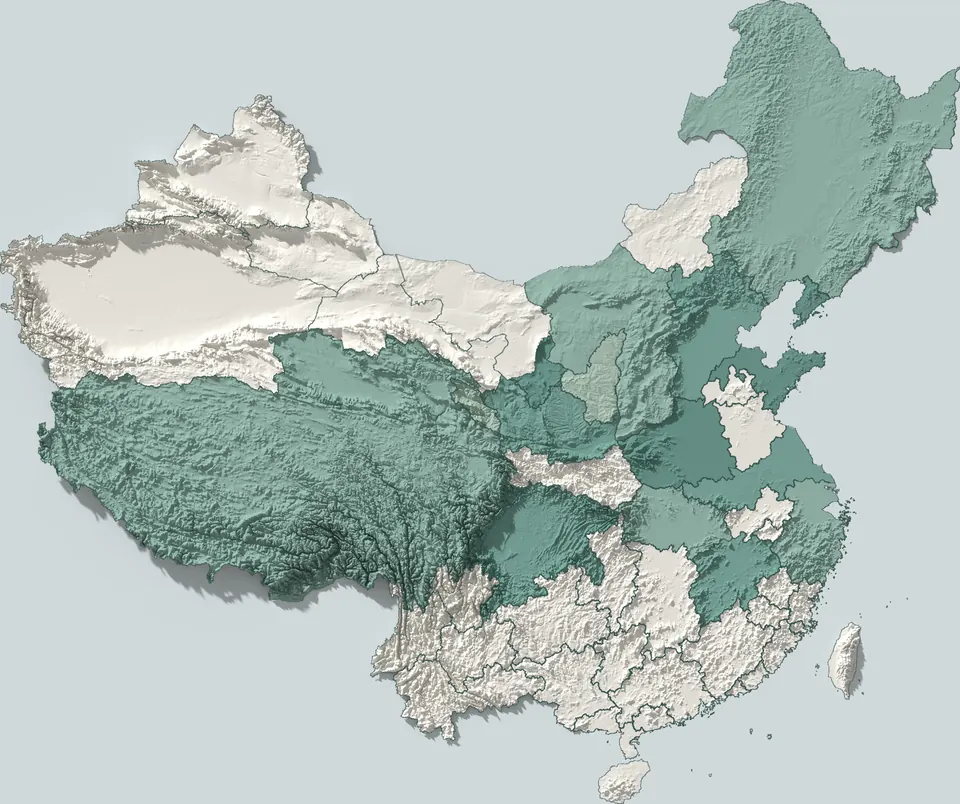
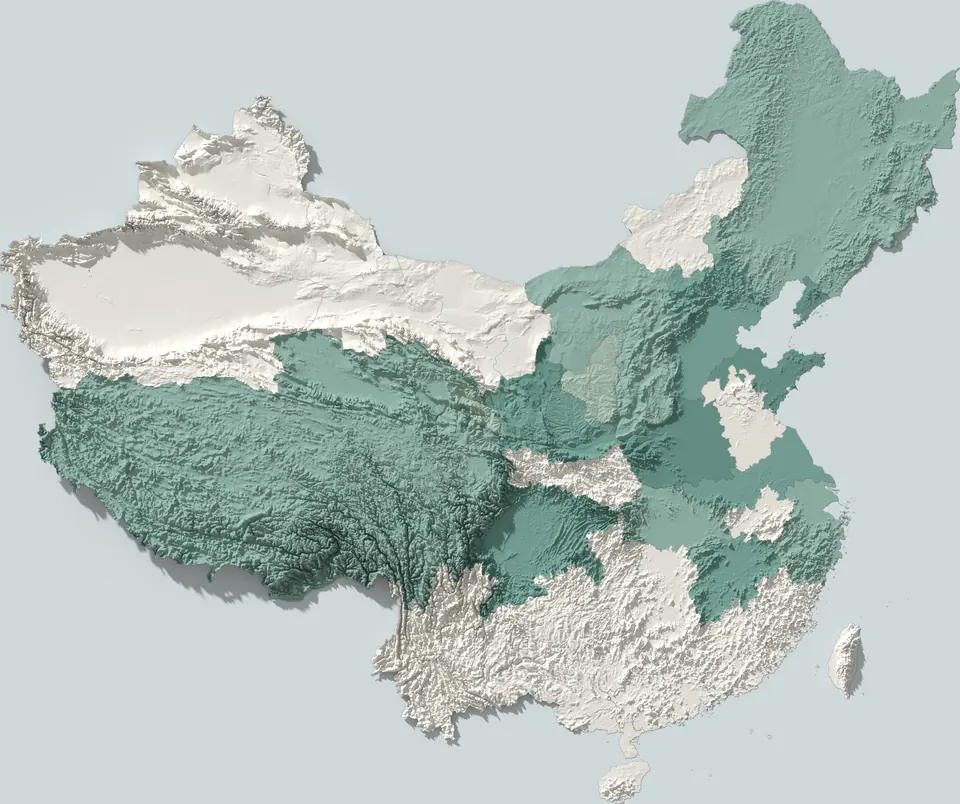
Soften cultural map boundaries in previews and the large viewer

diff --git a/life.html b/life.html
@@ -59,27 +59,27 @@
             visibility: hidden !important;
         }
     </style>
-<script src="assets/stellar-transit.js?v=20261108-biaukai" defer onerror="document.documentElement.classList.remove('stellar-arrival-pending')"></script>
+<script src="assets/stellar-transit.js?v=20261108-atlas-borders" defer onerror="document.documentElement.classList.remove('stellar-arrival-pending')"></script>
     <link rel="preload" href="fonts/newsreader-latin.woff2" as="font" type="font/woff2" crossorigin>
     <link rel="preload" href="fonts/ibm-plex-sans-latin.woff2" as="font" type="font/woff2" crossorigin>
     <link rel="preload" as="style" href="https://cdnjs.cloudflare.com/ajax/libs/font-awesome/6.5.1/css/all.min.css" onload="this.onload=null;this.rel='stylesheet'">
     <noscript><link rel="stylesheet" href="https://cdnjs.cloudflare.com/ajax/libs/font-awesome/6.5.1/css/all.min.css"></noscript>
-    <script src="assets/hipparcos-stars.js?v=20261108-biaukai" defer></script>
-    <script src="assets/hipparcos-distances.js?v=20261108-biaukai" defer></script>
-    <link rel="stylesheet" href="assets/life/styles/01-foundation-sky.css?v=20261108-biaukai&ui=20261029-handwriting&reading=20261106-illustrated-reader">
-    <link rel="stylesheet" href="assets/life/styles/02-section-drawer.css?v=20261108-biaukai">
-    <link rel="stylesheet" href="assets/life/styles/03-sky-navigation.css?v=20261108-biaukai">
-    <link rel="stylesheet" href="assets/life/styles/04-detail-panels.css?v=20261108-biaukai">
-    <link rel="stylesheet" href="assets/life/styles/05-life-content.css?v=20261108-biaukai&ui=20261028-personal&friends=20261030-group-links&reading=20261106-illustrated-reader">
-    <link rel="stylesheet" href="assets/life/styles/06-homepage-parity.css?v=20261108-biaukai">
-    <link rel="stylesheet" href="assets/life/styles/07-overlays-responsive.css?v=20261108-biaukai&atlas=20261107-culture-regions">
-    <link rel="stylesheet" href="assets/life/styles/08-star-map.css?v=20261108-biaukai">
-    <link rel="stylesheet" href="assets/life/styles/13-galactic-navigation.css?v=20261108-biaukai&controls=20261030-fixed-center">
-    <link rel="stylesheet" href="assets/life/styles/10-deep-sky-map.css?v=20261108-biaukai">
-    <link rel="stylesheet" href="assets/life/styles/11-index-theme-overlays.css?v=20261108-biaukai">
-    <link rel="stylesheet" href="assets/life/styles/12-handwritten-sky.css?v=20261108-biaukai">
-    <link rel="stylesheet" href="assets/site-identity.css?v=20261108-biaukai">
-    <script src="assets/site-identity.js?v=20261108-biaukai" defer></script>
+    <script src="assets/hipparcos-stars.js?v=20261108-atlas-borders" defer></script>
+    <script src="assets/hipparcos-distances.js?v=20261108-atlas-borders" defer></script>
+    <link rel="stylesheet" href="assets/life/styles/01-foundation-sky.css?v=20261108-atlas-borders&ui=20261029-handwriting&reading=20261106-illustrated-reader">
+    <link rel="stylesheet" href="assets/life/styles/02-section-drawer.css?v=20261108-atlas-borders">
+    <link rel="stylesheet" href="assets/life/styles/03-sky-navigation.css?v=20261108-atlas-borders">
+    <link rel="stylesheet" href="assets/life/styles/04-detail-panels.css?v=20261108-atlas-borders">
+    <link rel="stylesheet" href="assets/life/styles/05-life-content.css?v=20261108-atlas-borders&ui=20261028-personal&friends=20261030-group-links&reading=20261106-illustrated-reader">
+    <link rel="stylesheet" href="assets/life/styles/06-homepage-parity.css?v=20261108-atlas-borders">
+    <link rel="stylesheet" href="assets/life/styles/07-overlays-responsive.css?v=20261108-atlas-borders&atlas=20261108-atlas-borders">
+    <link rel="stylesheet" href="assets/life/styles/08-star-map.css?v=20261108-atlas-borders">
+    <link rel="stylesheet" href="assets/life/styles/13-galactic-navigation.css?v=20261108-atlas-borders&controls=20261030-fixed-center">
+    <link rel="stylesheet" href="assets/life/styles/10-deep-sky-map.css?v=20261108-atlas-borders">
+    <link rel="stylesheet" href="assets/life/styles/11-index-theme-overlays.css?v=20261108-atlas-borders">
+    <link rel="stylesheet" href="assets/life/styles/12-handwritten-sky.css?v=20261108-atlas-borders">
+    <link rel="stylesheet" href="assets/site-identity.css?v=20261108-atlas-borders">
+    <script src="assets/site-identity.js?v=20261108-atlas-borders" defer></script>
     <noscript>
         <style>
             html, body { height: auto; overflow: auto; background: var(--life-paper); color: var(--life-ink); }
@@ -1846,29 +1846,29 @@ Let me know what you think!
         <span data-key="home_departing">Returning home</span>
     </div>
 
-    <script src="assets/vendor/astronomy-engine-2.1.19.min.js?v=20261108-biaukai" defer></script>
-    <script src="assets/life/scripts/01-content-data.js?v=20261108-biaukai&copy=20261029-handwriting&friends=20261030-group-links&reading=20261106-illustrated-reader" defer></script>
-    <script src="assets/life/scripts/02-sky-config.js?v=20261108-biaukai&copy=20261028-no-star-note&reading=20261105-xiduomei" defer></script>
-    <script src="assets/life/scripts/03-math-orientation.js?v=20261108-biaukai" defer></script>
-    <script src="assets/life/scripts/04-dom-state.js?v=20261108-biaukai&copy=20261028-no-star-note" defer></script>
-    <script src="assets/life/scripts/05-astronomy.js?v=20261108-biaukai" defer></script>
-    <script src="assets/life/scripts/06-framing.js?v=20261108-biaukai" defer></script>
-    <script src="assets/life/scripts/07-galaxy-renderer.js?v=20261108-biaukai" defer></script>
-    <script src="assets/life/scripts/07-galactic-space.js?v=20261108-biaukai&controls=20261030-fixed-center" defer></script>
-    <script src="assets/life/scripts/07-star-map-renderer.js?v=20261108-biaukai&detail=20261102-grazing-density" defer></script>
-    <script src="assets/life/scripts/09-label-layout.js?v=20261108-biaukai" defer></script>
-    <script src="assets/life/scripts/10-sky-overlay.js?v=20261108-biaukai" defer></script>
-    <script src="assets/life/scripts/11-section-index.js?v=20261108-biaukai&ui=20261028-personal" defer></script>
-    <script src="assets/life/scripts/12-detail-navigation.js?v=20261108-biaukai&copy=20261028-no-star-note" defer></script>
-    <script src="assets/life/scripts/13-gaze-constellations.js?v=20261108-biaukai" defer></script>
-    <script src="assets/life/scripts/14-portal-navigation.js?v=20261108-biaukai" defer></script>
-    <script src="assets/life/scripts/15-render-lock.js?v=20261108-biaukai" defer></script>
-    <script src="assets/life/scripts/19-star-map.js?v=20261108-biaukai&controls=20261030-fixed-center&reading=20261105-xiduomei" defer></script>
-    <script src="assets/life/scripts/21-deep-sky-map.js?v=20261108-biaukai" defer></script>
-    <script src="assets/life/scripts/16-input-events.js?v=20261108-biaukai" defer></script>
-    <script src="assets/life/scripts/17-content-ui.js?v=20261108-biaukai&ui=20261028-personal&friends=20261030-group-links&reading=20261106-illustrated-reader" defer></script>
-    <script src="assets/life/scripts/22-footprints-atlas.js?v=20261108-biaukai&atlas=20261107-culture-regions" defer></script>
-    <script src="assets/life/scripts/23-handwritten-sky.js?v=20261108-biaukai&size=compact" defer></script>
-    <script src="assets/life/scripts/18-bootstrap.js?v=20261108-biaukai" defer></script>
+    <script src="assets/vendor/astronomy-engine-2.1.19.min.js?v=20261108-atlas-borders" defer></script>
+    <script src="assets/life/scripts/01-content-data.js?v=20261108-atlas-borders&copy=20261029-handwriting&friends=20261030-group-links&reading=20261106-illustrated-reader" defer></script>
+    <script src="assets/life/scripts/02-sky-config.js?v=20261108-atlas-borders&copy=20261028-no-star-note&reading=20261105-xiduomei" defer></script>
+    <script src="assets/life/scripts/03-math-orientation.js?v=20261108-atlas-borders" defer></script>
+    <script src="assets/life/scripts/04-dom-state.js?v=20261108-atlas-borders&copy=20261028-no-star-note" defer></script>
+    <script src="assets/life/scripts/05-astronomy.js?v=20261108-atlas-borders" defer></script>
+    <script src="assets/life/scripts/06-framing.js?v=20261108-atlas-borders" defer></script>
+    <script src="assets/life/scripts/07-galaxy-renderer.js?v=20261108-atlas-borders" defer></script>
+    <script src="assets/life/scripts/07-galactic-space.js?v=20261108-atlas-borders&controls=20261030-fixed-center" defer></script>
+    <script src="assets/life/scripts/07-star-map-renderer.js?v=20261108-atlas-borders&detail=20261102-grazing-density" defer></script>
+    <script src="assets/life/scripts/09-label-layout.js?v=20261108-atlas-borders" defer></script>
+    <script src="assets/life/scripts/10-sky-overlay.js?v=20261108-atlas-borders" defer></script>
+    <script src="assets/life/scripts/11-section-index.js?v=20261108-atlas-borders&ui=20261028-personal" defer></script>
+    <script src="assets/life/scripts/12-detail-navigation.js?v=20261108-atlas-borders&copy=20261028-no-star-note" defer></script>
+    <script src="assets/life/scripts/13-gaze-constellations.js?v=20261108-atlas-borders" defer></script>
+    <script src="assets/life/scripts/14-portal-navigation.js?v=20261108-atlas-borders" defer></script>
+    <script src="assets/life/scripts/15-render-lock.js?v=20261108-atlas-borders" defer></script>
+    <script src="assets/life/scripts/19-star-map.js?v=20261108-atlas-borders&controls=20261030-fixed-center&reading=20261105-xiduomei" defer></script>
+    <script src="assets/life/scripts/21-deep-sky-map.js?v=20261108-atlas-borders" defer></script>
+    <script src="assets/life/scripts/16-input-events.js?v=20261108-atlas-borders" defer></script>
+    <script src="assets/life/scripts/17-content-ui.js?v=20261108-atlas-borders&ui=20261028-personal&friends=20261030-group-links&reading=20261106-illustrated-reader" defer></script>
+    <script src="assets/life/scripts/22-footprints-atlas.js?v=20261108-atlas-borders&atlas=20261108-atlas-borders" defer></script>
+    <script src="assets/life/scripts/23-handwritten-sky.js?v=20261108-atlas-borders&size=compact" defer></script>
+    <script src="assets/life/scripts/18-bootstrap.js?v=20261108-atlas-borders" defer></script>
 </body>
 </html>

diff --git a/observatory.html b/observatory.html
@@ -60,26 +60,26 @@
             visibility: hidden !important;
         }
     </style>
-<script src="assets/stellar-transit.js?v=20261108-biaukai" defer onerror="document.documentElement.classList.remove('stellar-arrival-pending')"></script>
+<script src="assets/stellar-transit.js?v=20261108-atlas-borders" defer onerror="document.documentElement.classList.remove('stellar-arrival-pending')"></script>
     <link rel="preload" href="fonts/newsreader-latin.woff2" as="font" type="font/woff2" crossorigin>
     <link rel="preload" href="fonts/ibm-plex-sans-latin.woff2" as="font" type="font/woff2" crossorigin>
     <link rel="preload" as="style" href="https://cdnjs.cloudflare.com/ajax/libs/font-awesome/6.5.1/css/all.min.css" onload="this.onload=null;this.rel='stylesheet'">
     <noscript><link rel="stylesheet" href="https://cdnjs.cloudflare.com/ajax/libs/font-awesome/6.5.1/css/all.min.css"></noscript>
-    <script src="assets/hipparcos-stars.js?v=20261108-biaukai" defer></script>
-    <script src="assets/hipparcos-distances.js?v=20261108-biaukai" defer></script>
-    <link rel="stylesheet" href="assets/life/styles/01-foundation-sky.css?v=20261108-biaukai&ui=20261029-handwriting&reading=20261106-illustrated-reader">
-    <link rel="stylesheet" href="assets/life/styles/02-section-drawer.css?v=20261108-biaukai">
-    <link rel="stylesheet" href="assets/life/styles/03-sky-navigation.css?v=20261108-biaukai">
-    <link rel="stylesheet" href="assets/life/styles/04-detail-panels.css?v=20261108-biaukai">
-    <link rel="stylesheet" href="assets/life/styles/05-life-content.css?v=20261108-biaukai&ui=20261028-personal&friends=20261030-group-links&reading=20261106-illustrated-reader">
-    <link rel="stylesheet" href="assets/life/styles/06-homepage-parity.css?v=20261108-biaukai">
-    <link rel="stylesheet" href="assets/life/styles/07-overlays-responsive.css?v=20261108-biaukai&atlas=20261107-culture-regions">
-    <link rel="stylesheet" href="assets/life/styles/08-star-map.css?v=20261108-biaukai&galaxy=20261014-gaia-realism">
-    <link rel="stylesheet" href="assets/life/styles/10-deep-sky-map.css?v=20261108-biaukai">
-    <link rel="stylesheet" href="assets/life/styles/11-index-theme-overlays.css?v=20261108-biaukai">
-    <link rel="stylesheet" href="assets/life/styles/12-handwritten-sky.css?v=20261108-biaukai">
-    <link rel="stylesheet" href="assets/site-identity.css?v=20261108-biaukai">
-    <script src="assets/site-identity.js?v=20261108-biaukai" defer></script>
+    <script src="assets/hipparcos-stars.js?v=20261108-atlas-borders" defer></script>
+    <script src="assets/hipparcos-distances.js?v=20261108-atlas-borders" defer></script>
+    <link rel="stylesheet" href="assets/life/styles/01-foundation-sky.css?v=20261108-atlas-borders&ui=20261029-handwriting&reading=20261106-illustrated-reader">
+    <link rel="stylesheet" href="assets/life/styles/02-section-drawer.css?v=20261108-atlas-borders">
+    <link rel="stylesheet" href="assets/life/styles/03-sky-navigation.css?v=20261108-atlas-borders">
+    <link rel="stylesheet" href="assets/life/styles/04-detail-panels.css?v=20261108-atlas-borders">
+    <link rel="stylesheet" href="assets/life/styles/05-life-content.css?v=20261108-atlas-borders&ui=20261028-personal&friends=20261030-group-links&reading=20261106-illustrated-reader">
+    <link rel="stylesheet" href="assets/life/styles/06-homepage-parity.css?v=20261108-atlas-borders">
+    <link rel="stylesheet" href="assets/life/styles/07-overlays-responsive.css?v=20261108-atlas-borders&atlas=20261108-atlas-borders">
+    <link rel="stylesheet" href="assets/life/styles/08-star-map.css?v=20261108-atlas-borders&galaxy=20261014-gaia-realism">
+    <link rel="stylesheet" href="assets/life/styles/10-deep-sky-map.css?v=20261108-atlas-borders">
+    <link rel="stylesheet" href="assets/life/styles/11-index-theme-overlays.css?v=20261108-atlas-borders">
+    <link rel="stylesheet" href="assets/life/styles/12-handwritten-sky.css?v=20261108-atlas-borders">
+    <link rel="stylesheet" href="assets/site-identity.css?v=20261108-atlas-borders">
+    <script src="assets/site-identity.js?v=20261108-atlas-borders" defer></script>
     <noscript>
         <style>
             html, body { height: auto; overflow: auto; background: var(--life-paper); color: var(--life-ink); }
@@ -1837,28 +1837,28 @@ Let me know what you think!
         <span data-key="home_departing">Returning home</span>
     </div>
 
-    <script src="assets/vendor/astronomy-engine-2.1.19.min.js?v=20261108-biaukai" defer></script>
-    <script src="assets/life/scripts/01-content-data.js?v=20261108-biaukai&copy=20261029-handwriting&friends=20261030-group-links&reading=20261106-illustrated-reader" defer></script>
-    <script src="assets/life/scripts/02-sky-config.js?v=20261108-biaukai&copy=20261028-no-star-note&reading=20261105-xiduomei" defer></script>
-    <script src="assets/life/scripts/03-math-orientation.js?v=20261108-biaukai" defer></script>
-    <script src="assets/life/scripts/04-dom-state.js?v=20261108-biaukai&copy=20261028-no-star-note" defer></script>
-    <script src="assets/life/scripts/05-astronomy.js?v=20261108-biaukai" defer></script>
-    <script src="assets/life/scripts/06-framing.js?v=20261108-biaukai" defer></script>
-    <script src="assets/life/scripts/07-galaxy-renderer.js?v=20261108-biaukai" defer></script>
-    <script src="assets/life/observatory/07-star-map-renderer.js?v=20261108-biaukai&stars=20261014-gentle-stars&motion=20261015-smooth&detail=20261030-lossless-galaxy" defer></script>
-    <script src="assets/life/scripts/09-label-layout.js?v=20261108-biaukai" defer></script>
-    <script src="assets/life/scripts/10-sky-overlay.js?v=20261108-biaukai" defer></script>
-    <script src="assets/life/scripts/11-section-index.js?v=20261108-biaukai&ui=20261028-personal" defer></script>
-    <script src="assets/life/scripts/12-detail-navigation.js?v=20261108-biaukai&copy=20261028-no-star-note" defer></script>
-    <script src="assets/life/scripts/13-gaze-constellations.js?v=20261108-biaukai" defer></script>
-    <script src="assets/life/scripts/14-portal-navigation.js?v=20261108-biaukai" defer></script>
-    <script src="assets/life/scripts/15-render-lock.js?v=20261108-biaukai" defer></script>
-    <script src="assets/life/observatory/19-star-map.js?v=20261108-biaukai&input=20261010-trackpad&home=20261012-solar-home&stars=20261014-original-stars&motion=20261015-smooth&nav=20261028&reading=20261105-xiduomei" defer></script>
-    <script src="assets/life/scripts/21-deep-sky-map.js?v=20261108-biaukai" defer></script>
-    <script src="assets/life/scripts/16-input-events.js?v=20261108-biaukai" defer></script>
-    <script src="assets/life/scripts/17-content-ui.js?v=20261108-biaukai&ui=20261028-personal&friends=20261030-group-links&reading=20261106-illustrated-reader" defer></script>
-    <script src="assets/life/scripts/22-footprints-atlas.js?v=20261108-biaukai&atlas=20261107-culture-regions" defer></script>
-    <script src="assets/life/scripts/23-handwritten-sky.js?v=20261108-biaukai&size=compact" defer></script>
-    <script src="assets/life/scripts/18-bootstrap.js?v=20261108-biaukai" defer></script>
+    <script src="assets/vendor/astronomy-engine-2.1.19.min.js?v=20261108-atlas-borders" defer></script>
+    <script src="assets/life/scripts/01-content-data.js?v=20261108-atlas-borders&copy=20261029-handwriting&friends=20261030-group-links&reading=20261106-illustrated-reader" defer></script>
+    <script src="assets/life/scripts/02-sky-config.js?v=20261108-atlas-borders&copy=20261028-no-star-note&reading=20261105-xiduomei" defer></script>
+    <script src="assets/life/scripts/03-math-orientation.js?v=20261108-atlas-borders" defer></script>
+    <script src="assets/life/scripts/04-dom-state.js?v=20261108-atlas-borders&copy=20261028-no-star-note" defer></script>
+    <script src="assets/life/scripts/05-astronomy.js?v=20261108-atlas-borders" defer></script>
+    <script src="assets/life/scripts/06-framing.js?v=20261108-atlas-borders" defer></script>
+    <script src="assets/life/scripts/07-galaxy-renderer.js?v=20261108-atlas-borders" defer></script>
+    <script src="assets/life/observatory/07-star-map-renderer.js?v=20261108-atlas-borders&stars=20261014-gentle-stars&motion=20261015-smooth&detail=20261030-lossless-galaxy" defer></script>
+    <script src="assets/life/scripts/09-label-layout.js?v=20261108-atlas-borders" defer></script>
+    <script src="assets/life/scripts/10-sky-overlay.js?v=20261108-atlas-borders" defer></script>
+    <script src="assets/life/scripts/11-section-index.js?v=20261108-atlas-borders&ui=20261028-personal" defer></script>
+    <script src="assets/life/scripts/12-detail-navigation.js?v=20261108-atlas-borders&copy=20261028-no-star-note" defer></script>
+    <script src="assets/life/scripts/13-gaze-constellations.js?v=20261108-atlas-borders" defer></script>
+    <script src="assets/life/scripts/14-portal-navigation.js?v=20261108-atlas-borders" defer></script>
+    <script src="assets/life/scripts/15-render-lock.js?v=20261108-atlas-borders" defer></script>
+    <script src="assets/life/observatory/19-star-map.js?v=20261108-atlas-borders&input=20261010-trackpad&home=20261012-solar-home&stars=20261014-original-stars&motion=20261015-smooth&nav=20261028&reading=20261105-xiduomei" defer></script>
+    <script src="assets/life/scripts/21-deep-sky-map.js?v=20261108-atlas-borders" defer></script>
+    <script src="assets/life/scripts/16-input-events.js?v=20261108-atlas-borders" defer></script>
+    <script src="assets/life/scripts/17-content-ui.js?v=20261108-atlas-borders&ui=20261028-personal&friends=20261030-group-links&reading=20261106-illustrated-reader" defer></script>
+    <script src="assets/life/scripts/22-footprints-atlas.js?v=20261108-atlas-borders&atlas=20261108-atlas-borders" defer></script>
+    <script src="assets/life/scripts/23-handwritten-sky.js?v=20261108-atlas-borders&size=compact" defer></script>
+    <script src="assets/life/scripts/18-bootstrap.js?v=20261108-atlas-borders" defer></script>
 </body>
 </html>

diff --git a/assets/life/scripts/22-footprints-atlas.js b/assets/life/scripts/22-footprints-atlas.js
@@ -4,7 +4,7 @@
     // 维护指南：tools/relief-atlas/ADDING-FOOTPRINTS.md；这里是显示层，不是到访/行程数据的编辑入口。
     // 新城市改 site_content.json 的 visited_china；新路线改 scripts/prepare-footprint-routes.py 再生成、打包。
     // 城市或路线重新打包后，同步修改此版本、life.html 中脚本的 atlas= 及全部 Life 资源的共享 v=。
-    const ATLAS_VERSION = '20261107-culture-regions';
+    const ATLAS_VERSION = '20261108-atlas-borders';
     const ATLAS_URL = `assets/maps/relief/atlas-preview.json?v=${ATLAS_VERSION}`;
     const MAP_DEFINITIONS = [
         {

diff --git a/assets/life/styles/07-overlays-responsive.css b/assets/life/styles/07-overlays-responsive.css
@@ -330,16 +330,16 @@
 
 .footprints-cultural-boundary {
     fill: none;
-    stroke: rgba(52, 80, 75, 0.48);
-    stroke-width: 0.7;
+    stroke: rgba(57, 76, 74, 0.22);
+    stroke-width: 0.5;
     stroke-linejoin: round;
     pointer-events: none;
 }
 
 .footprints-city.is-active .footprints-cultural-boundary,
 .footprints-city:focus-visible .footprints-cultural-boundary {
-    stroke: rgba(39, 49, 56, 0.84);
-    stroke-width: 1.4;
+    stroke: rgba(39, 49, 56, 0.55);
+    stroke-width: 1;
 }
 
 .footprints-map-controls {

diff --git a/scripts/build-footprint-previews.py b/scripts/build-footprint-previews.py
@@ -102,7 +102,7 @@ def package(runtime, destination):
                 drawing = ImageDraw.Draw(image, "RGBA")
                 for region in layer["regions"]:
                     for points in path_rings(region["boundary_path"], scale):
-                        drawing.line(points, fill=(52, 80, 75, 122), width=SUPERSAMPLE, joint="curve")
+                        drawing.line(points, fill=(57, 76, 74, 56), width=max(1, round(0.5 * SUPERSAMPLE)), joint="curve")
             paint_insets(image, metadata, destination, scale)
             filename = identifier + "-card-" + view + ".webp"
             image.resize((width, height), Image.Resampling.LANCZOS).save(destination / filename, quality=78, method=6)

diff --git a/tools/relief-atlas/ADDING-FOOTPRINTS.md b/tools/relief-atlas/ADDING-FOOTPRINTS.md
@@ -40,6 +40,8 @@ python scripts/validate-footprint-atlas.py
 
 中国地图的「文化区」视图与「省份」「城市与路线」并列。分区综合文化和方言，以现有地级市边界近似组合，并允许跨省。当前文化彩色层为 `footprints/culture-regions-20261107/cultural/`，主图和海外概览继续使用 `selected-cultural-20261106/`。新增到访城市不需要重新烤制。各图使用独立色系，因此相同省份在中国图和东亚图可以有不同颜料。
 
+文化区区际边界使用低对比度的灰绿色细线，区内省市边界继续隐藏。小图描边由 `scripts/build-footprint-previews.py` 合成，大图描边由 `assets/life/styles/07-overlays-responsive.css` 控制；修改时同步两处并重建静态小图，无需重新烤制地形。
+
 当前共 47 个分区，覆盖 367 个城市级单元及港澳台 3 个省级补充单元，每个单元恰好归属一区。先按文化联系组合，再取通行短名，不添加「文化区」后缀。南京、镇江与皖中部分地区归江淮；上海、苏锡常与浙江归吴越；蒙东与东北大部归满洲；大连与胶东、鲁北保留胶辽联系；晋绥体现山西与内蒙古中西部的走西口联系；西藏连接甘孜、阿坝及青海部分地区。徽州与皖江、莆仙与闽中、海陆丰与客家、钦廉与壮乡分别处理。各组 `basis` 明确选择依据及混合地区的近似，完整改动见 [重划工程说明](footprints/culture-regions-20261107/README.md)。这是文化联系的编辑性展示，不是精确语言学或民族分布图。
 
 配置中编辑 `groups[].members` 的行政代码、`label` 名称及 `basis` 依据，并更新 `version`；生成器会从真实边界重新推导名称、几何、到访与相邻色。普通 `--prepare` 读取并保留此配置，`--write-defaults` 仅用于明确重置为脚本内规则。每次重划使用新的归档目录，避免覆盖历史原生工程：
